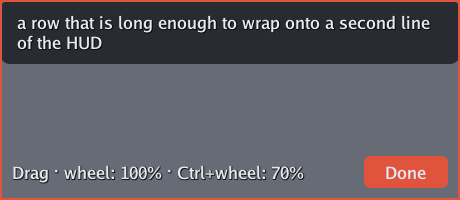
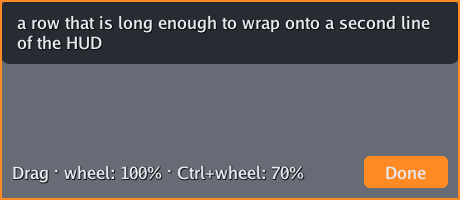
Paint the HUD's frame in the app's own orange (#18)
The edit frame and its Done button were still the red the trainer used
before it was Gourdian, next to a dashboard that is pumpkin orange. They
take the dashboard's accent now, the one colour both renderers already
share.

Changed region(s): [[0.0, 0.0, 1.0, 1.0]]

diff --git a/internal/overlay/shared.go b/internal/overlay/shared.go
@@ -17,7 +17,7 @@ var (
 	hudPanel  = color.RGBA{14, 17, 22, 255}
 	hudRow    = color.RGBA{28, 34, 48, 255}
 	hudLine   = color.RGBA{38, 45, 58, 255}
-	hudAccent = color.RGBA{224, 83, 61, 255}
+	hudAccent = color.RGBA{255, 138, 36, 255} // the dashboard's accent, --accent in app.css
 	hudKinds  = map[string]color.RGBA{
 		hud.KindText:   {230, 233, 239, 255},
 		hud.KindMuted:  {139, 149, 167, 255},
